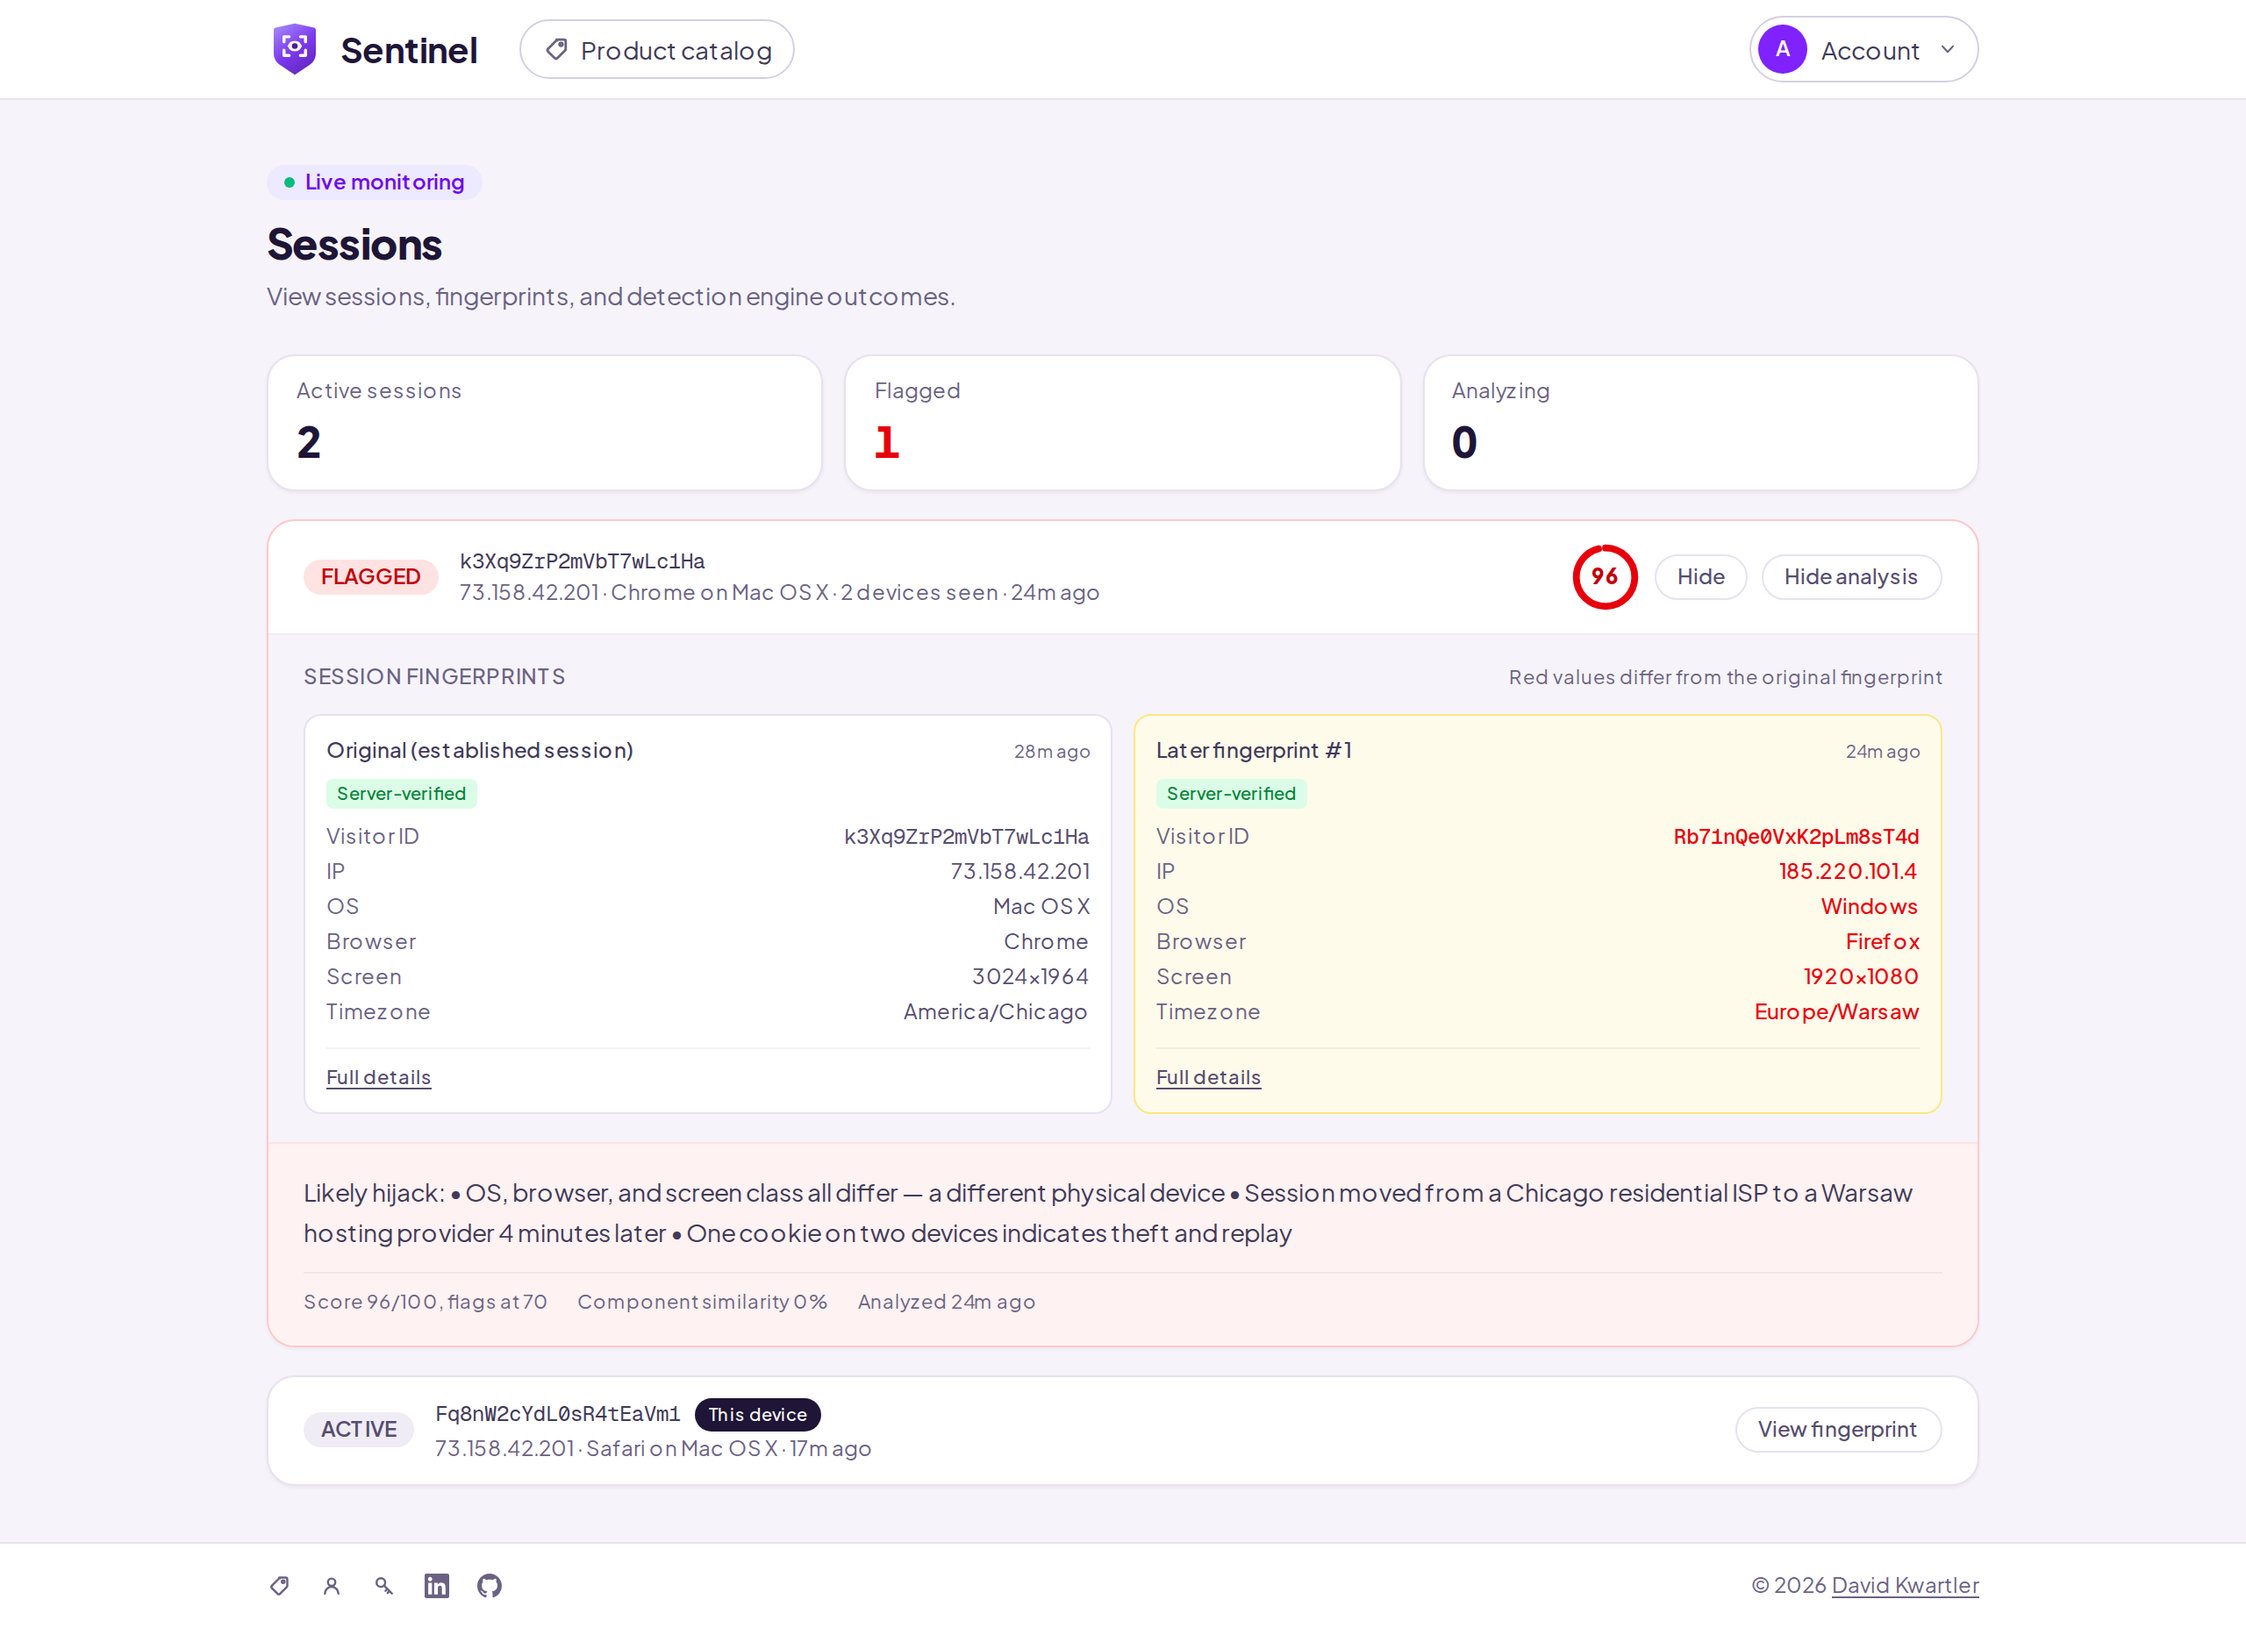
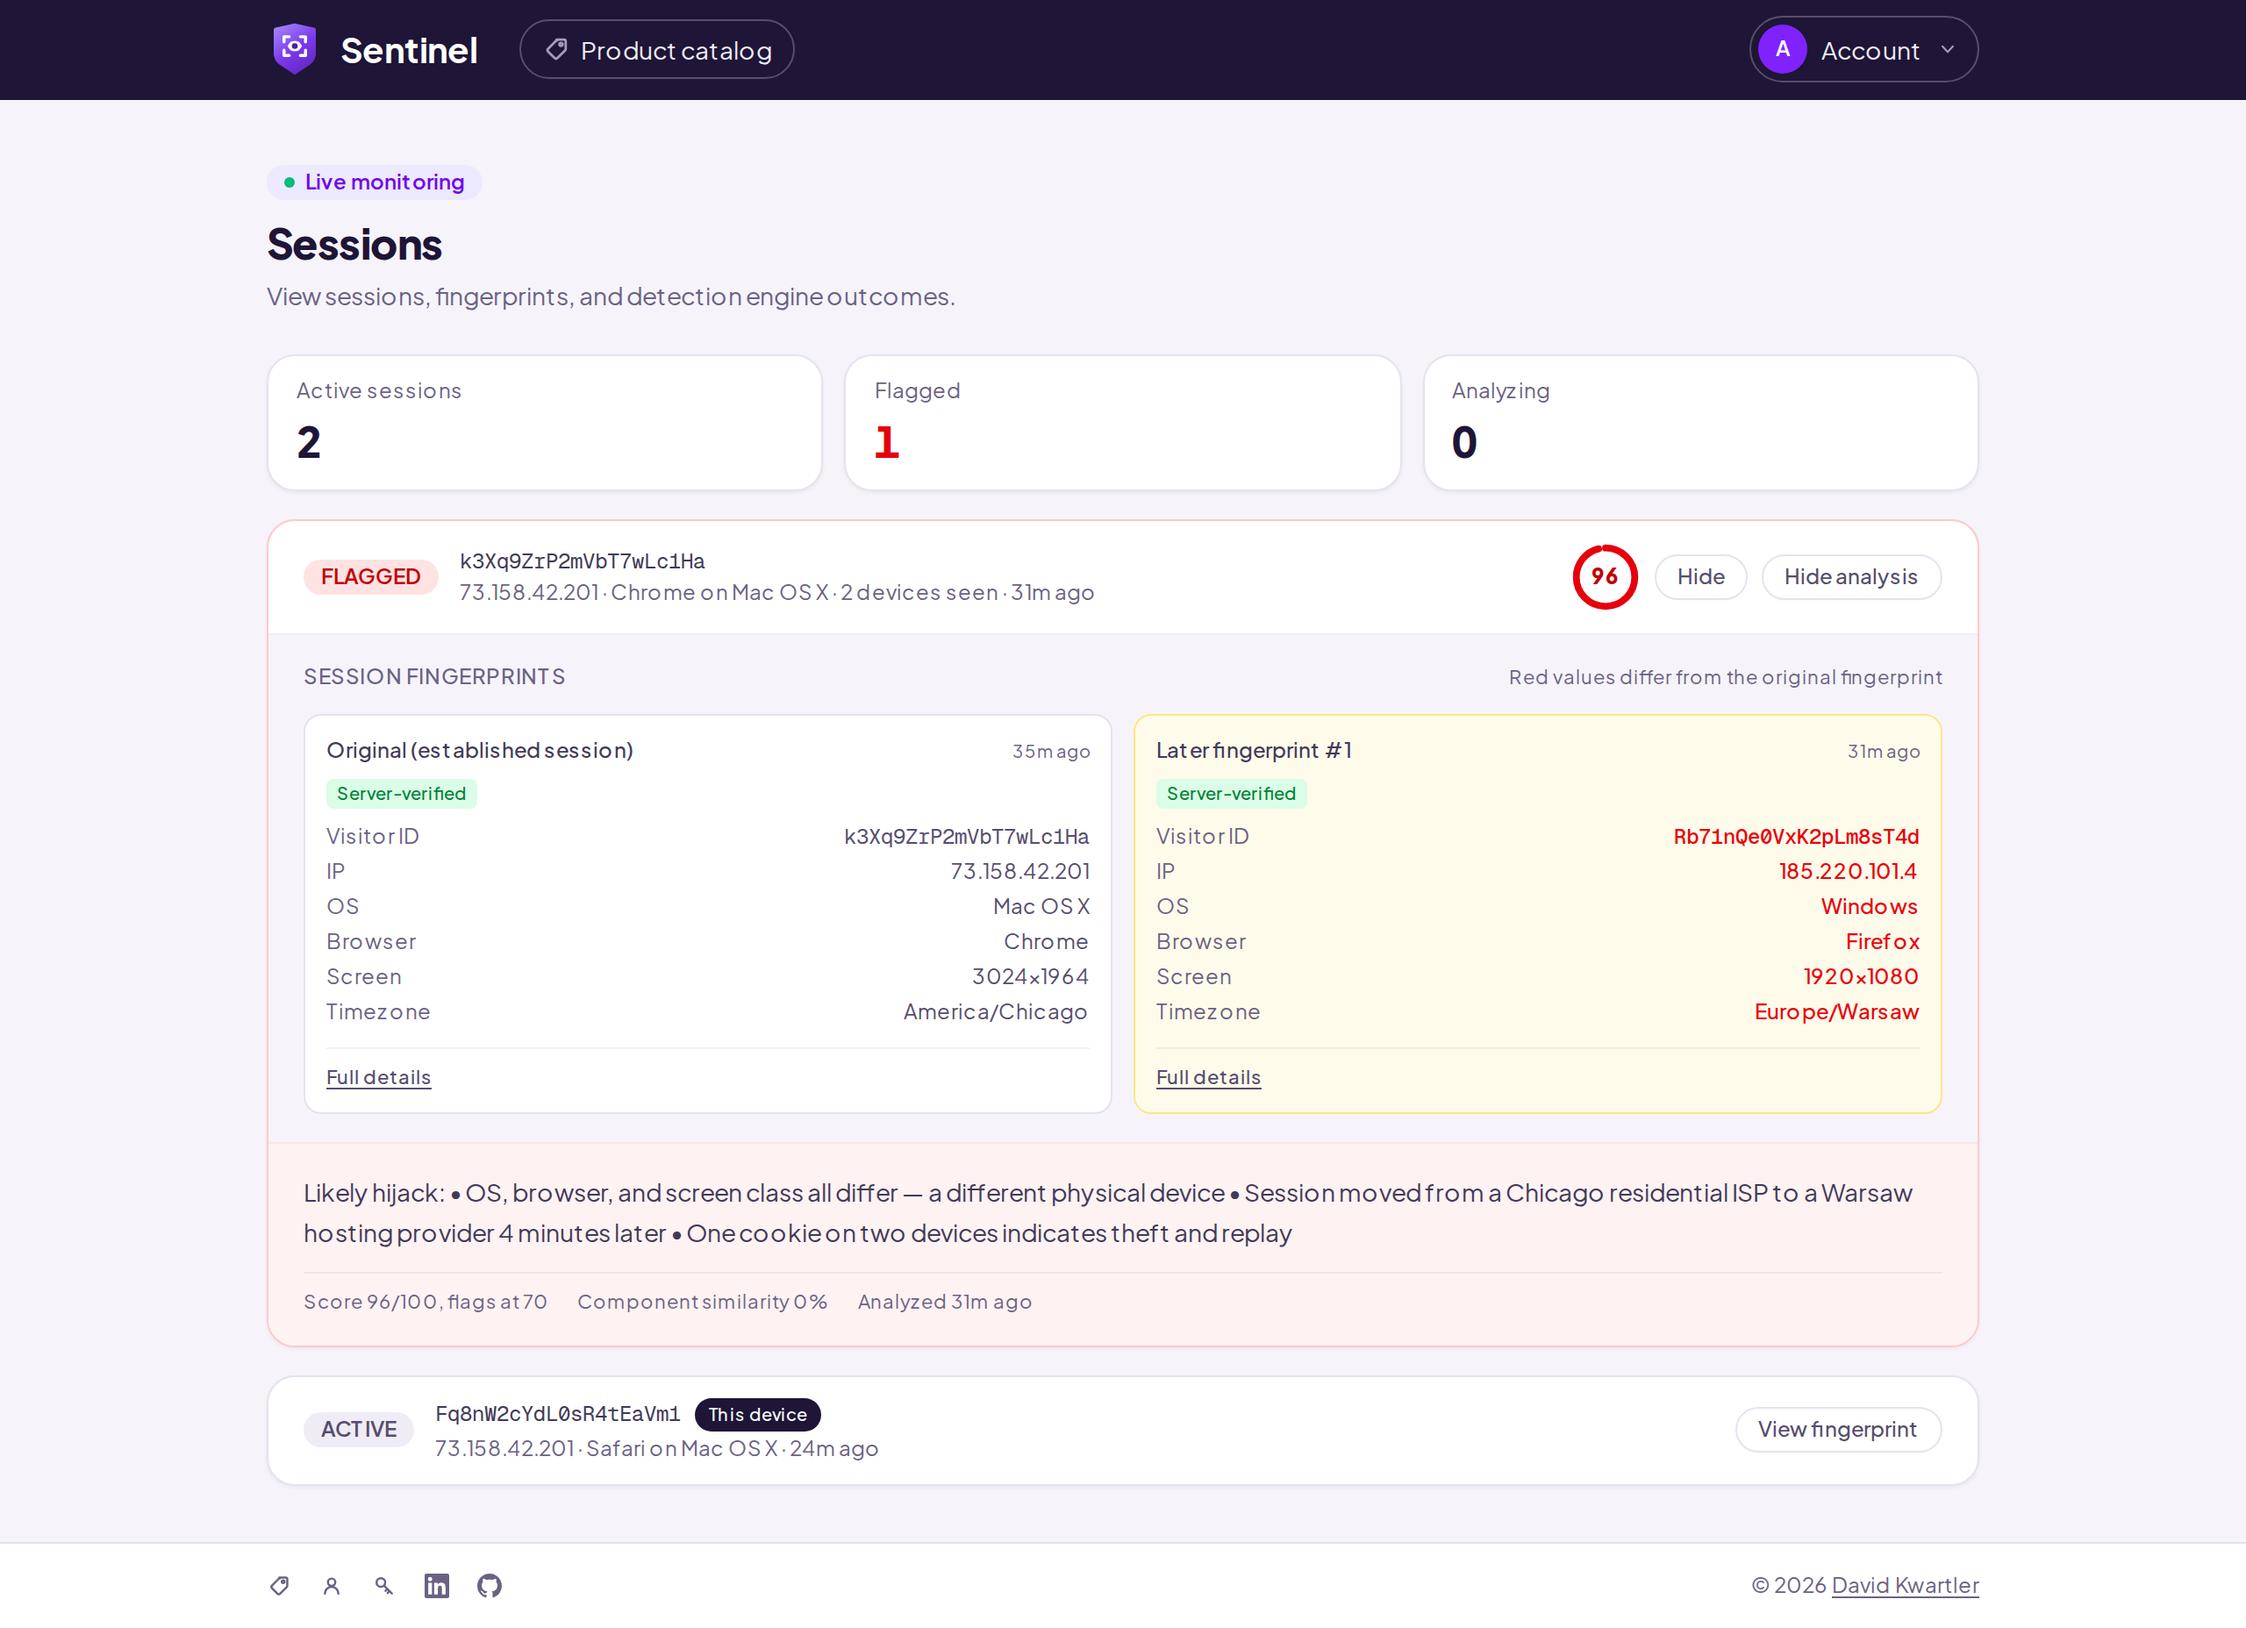
Make the site header an ink band
The white header blended into the lavender page, so the app had no top
edge. The header is now the site's ink color (#1E1537, gray-900 in the
theme), the one dark surface in an otherwise light UI, and the violet
mark sits on its strongest background.

On the band: a white wordmark; the Product catalog pill and Account button
as outlined white/25 pills; and Sign in as a white pill with ink text, the
single primary action for a signed-out visitor. The account dropdown stays
a white panel over the page.

Brand violet is only 2.7:1 against ink, below the 3:1 a focus indicator
needs, so the header sets data-surface="ink" and globals.css switches its
focus outline to light violet (#C4B5FD). The dropdown keeps the default.

README screenshots are re-captured with the new header.

Claude-Session: https://claude.ai/code/session_01CD1X1wPLQEdwyQHWxW4VXB

diff --git a/src/components/SiteHeader.tsx b/src/components/SiteHeader.tsx
@@ -18,12 +18,16 @@ export function SiteHeader({
   signOutAction?: () => Promise<void>
 }) {
   return (
-    <nav aria-label="Main navigation" className="border-b border-gray-200 bg-white">
+    // An ink band: the one dark surface in the otherwise light-only Aurora Flat
+    // UI, which gives the page a top edge and puts the violet mark on its
+    // strongest background. data-surface="ink" switches the focus outline to
+    // a light violet (globals.css); brand violet is too dark to see on ink.
+    <nav aria-label="Main navigation" data-surface="ink" className="border-b border-gray-900 bg-gray-900">
       <div className="mx-auto flex h-14 w-full max-w-5xl items-center justify-between px-4 sm:px-6">
         <div className="flex items-center gap-3 sm:gap-6">
           <Link
             href="/products"
-            className="flex items-center gap-2.5 text-xl font-bold leading-none tracking-tight text-gray-900"
+            className="flex items-center gap-2.5 text-xl font-bold leading-none tracking-tight text-white"
           >
             {/* leading-none on the lockup: with default leading, items-center
                 aligns the mark to the line box including descender space, and
@@ -49,7 +53,7 @@ export function SiteHeader({
             ) : (
               <Link
                 href="/login"
-                className="flex items-center gap-1.5 rounded-full bg-gray-900 px-4 py-1.5 text-sm font-medium text-white transition-colors hover:bg-gray-800"
+                className="flex items-center gap-1.5 rounded-full bg-white px-4 py-1.5 text-sm font-semibold text-gray-900 transition-colors hover:bg-gray-100"
               >
                 <SignInIcon className="h-4 w-4" />
                 Sign in

diff --git a/src/components/AccountMenu.tsx b/src/components/AccountMenu.tsx
@@ -96,15 +96,15 @@ export function AccountMenu({
         aria-haspopup="menu"
         aria-expanded={open}
         aria-label="Account menu"
-        className="flex items-center gap-2 rounded-full border border-gray-300 py-1 pl-1 pr-2.5 transition-colors hover:border-gray-400 hover:bg-gray-50 focus:outline-none focus-visible:ring-2 focus-visible:ring-violet-600"
+        className="flex items-center gap-2 rounded-full border border-white/25 py-1 pl-1 pr-2.5 transition-colors hover:border-white/40 hover:bg-white/10 focus:outline-none focus-visible:ring-2 focus-visible:ring-violet-300"
       >
         {avatar}
-        <span className="hidden text-sm text-gray-700 sm:inline">Account</span>
+        <span className="hidden text-sm text-gray-100 sm:inline">Account</span>
         <svg
           viewBox="0 0 20 20"
           fill="currentColor"
           aria-hidden="true"
-          className={`h-3.5 w-3.5 text-gray-500 transition-transform ${open ? "rotate-180" : ""}`}
+          className={`h-3.5 w-3.5 text-gray-400 transition-transform ${open ? "rotate-180" : ""}`}
         >
           <path
             fillRule="evenodd"

diff --git a/src/components/CatalogLink.tsx b/src/components/CatalogLink.tsx
@@ -19,7 +19,7 @@ export function CatalogLink() {
 
   const label = (
     <>
-      <ProductsIcon className="h-4 w-4 text-gray-500" />
+      <ProductsIcon className="h-4 w-4 text-gray-400" />
       <span className="sm:hidden">Products</span>
       <span className="hidden sm:inline">Product catalog</span>
     </>
@@ -29,7 +29,7 @@ export function CatalogLink() {
     return (
       <span
         aria-current="page"
-        className={`${BASE} cursor-default border-gray-200 bg-gray-50 text-gray-500`}
+        className={`${BASE} cursor-default border-white/15 bg-white/10 text-gray-300`}
       >
         {label}
       </span>
@@ -39,7 +39,7 @@ export function CatalogLink() {
   return (
     <Link
       href="/products"
-      className={`${BASE} border-gray-300 text-gray-700 hover:border-gray-400 hover:bg-gray-50 hover:text-gray-900`}
+      className={`${BASE} border-white/25 text-gray-100 hover:border-white/40 hover:bg-white/10 hover:text-white`}
     >
       {label}
     </Link>

diff --git a/src/app/globals.css b/src/app/globals.css
@@ -59,3 +59,11 @@ textarea:focus-visible,
   outline: 2px solid #7c3aed;
   outline-offset: 2px;
 }
+
+/* The header is an ink band. Brand violet at 2.7:1 against ink is below the
+   3:1 a focus indicator needs, so focus there uses a light violet instead.
+   The account dropdown sits inside the header but is a white panel, so it
+   keeps the default violet. */
+[data-surface="ink"] :focus-visible:not([role="menu"] *) {
+  outline-color: #c4b5fd;
+}

diff --git a/CLAUDE.md b/CLAUDE.md
@@ -73,6 +73,7 @@ Test files live next to source in `__tests__/` directories.
 
 - Tailwind CSS v4 (no tailwind.config — uses CSS-based config)
 - Design direction is **Aurora Flat** (`src/app/globals.css`): Plus Jakarta Sans, a lavender-tinted gray scale (redefined in `@theme`, so plain `gray-*` utilities carry it), 16px card radius, pill-shaped buttons, one neutral shadow. No gradients, glow, blur, or dark mode. Violet is the only accent; red/amber/emerald are status colors only.
+- The site header is an ink band (`bg-gray-900`, `data-surface="ink"`), the one dark surface in the UI. On it: white wordmark, outlined `white/25` pills, a white "Sign in" pill as the single primary action, and a light-violet focus outline (globals.css). The account dropdown stays a white panel.
 - Logo has two tiers: the plain flat violet shield (`src/app/icon.svg`) for the favicon and anything under ~24px, and `SentinelMark` (`src/components/SentinelMark.tsx`, violet gradient + white iris scan) at 32px and up. The logo is the one allowed gradient.
 - Minimal components, no component library
 - Server components by default, `"use client"` only when needed
